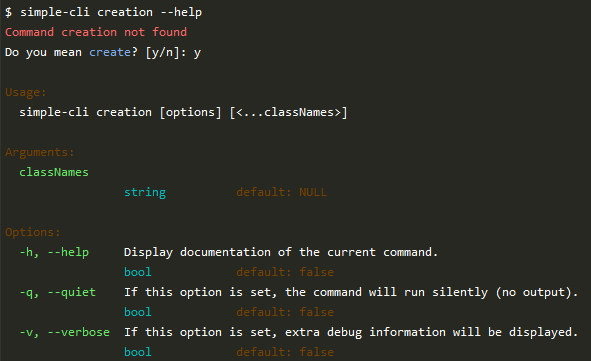
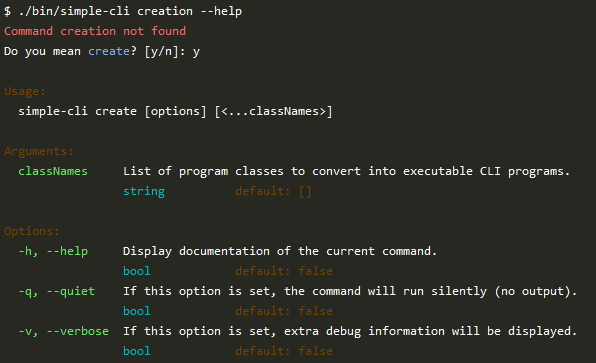
Store only valid commands

diff --git a/src/SimpleCli/SimpleCli.php b/src/SimpleCli/SimpleCli.php
@@ -107,11 +107,22 @@ abstract class SimpleCli
             if ($answer === 'y') {
                 $this->writeLine();
 
-                return $this->getCommandClassFromName($commands, $closestCommand);
+                return $closestCommand;
             }
         }
 
         return null;
+    }
+
+    private function getCommandName(array $commands, string $command): ?string
+    {
+        if (!isset($commands[$command])) {
+            $this->write("Command $command not found", 'red');
+
+            return $this->findClosestCommand($commands, $command);
+        }
+
+        return $command;
     }
 
     private function getCommandClassFromName(array $commands, string $command): ?string
@@ -126,20 +137,6 @@ abstract class SimpleCli
         }
 
         return $commandClass;
-    }
-
-    private function getCommandClass(): ?string
-    {
-        $command = $this->command;
-        $commands = $this->getAvailableCommands();
-
-        if (!isset($commands[$command])) {
-            $this->write("Command $command not found", 'red');
-
-            return $this->findClosestCommand($commands, $command);
-        }
-
-        return $this->getCommandClassFromName($commands, $command);
     }
 
     /**
@@ -190,11 +187,18 @@ abstract class SimpleCli
      */
     public function __invoke(string $file, string $command = 'list', ...$parameters): bool
     {
+        $commands = $this->getAvailableCommands();
         $this->file = $file;
+        $command = $this->getCommandName($commands, $command);
+
+        if (!$command) {
+            return false;
+        }
+
         $this->command = $command;
         $this->parameters = $parameters;
 
-        $commandClass = $this->getCommandClass();
+        $commandClass = $this->getCommandClassFromName($commands, $command);
 
         if (!$commandClass) {
             return false;

diff --git a/tests/SimpleCli/SimpleCliTest.php b/tests/SimpleCli/SimpleCliTest.php
@@ -84,8 +84,9 @@ class SimpleCliTest extends TestCase
     }
 
     /**
-     * @covers ::getCommandClass
+     * @covers ::getCommandName
      * @covers ::getCommandClassFromName
+     * @covers ::__invoke
      */
     public function testGetCommandClass()
     {
@@ -110,6 +111,7 @@ class SimpleCliTest extends TestCase
 
     /**
      * @covers ::findClosestCommand
+     * @covers ::getCommandName
      * @covers ::getCommandClassFromName
      * @covers ::__invoke
      */

diff --git a/tests/SimpleCli/Traits/ParametersTest.php b/tests/SimpleCli/Traits/ParametersTest.php
@@ -18,11 +18,11 @@ class ParametersTest extends TraitsTestCase
         $command = new DemoCli();
         $command->mute();
 
-        $command('foobar');
+        $command('hello');
 
         static::assertSame([], $command->getParameters());
 
-        $command('foobar', 'hello', 'A', 'B', 'C');
+        $command('hello', 'foobar', 'A', 'B', 'C');
 
         static::assertSame(['A', 'B', 'C'], $command->getParameters());
     }

diff --git a/tests/SimpleCli/Traits/CommandTest.php b/tests/SimpleCli/Traits/CommandTest.php
@@ -17,8 +17,8 @@ class CommandTest extends TraitsTestCase
         $command = new DemoCli();
         $command->mute();
 
-        $command('foobar', 'hello');
+        $command('foobar', 'foobar');
 
-        static::assertSame('hello', $command->getCommand());
+        static::assertSame('foobar', $command->getCommand());
     }
 }
